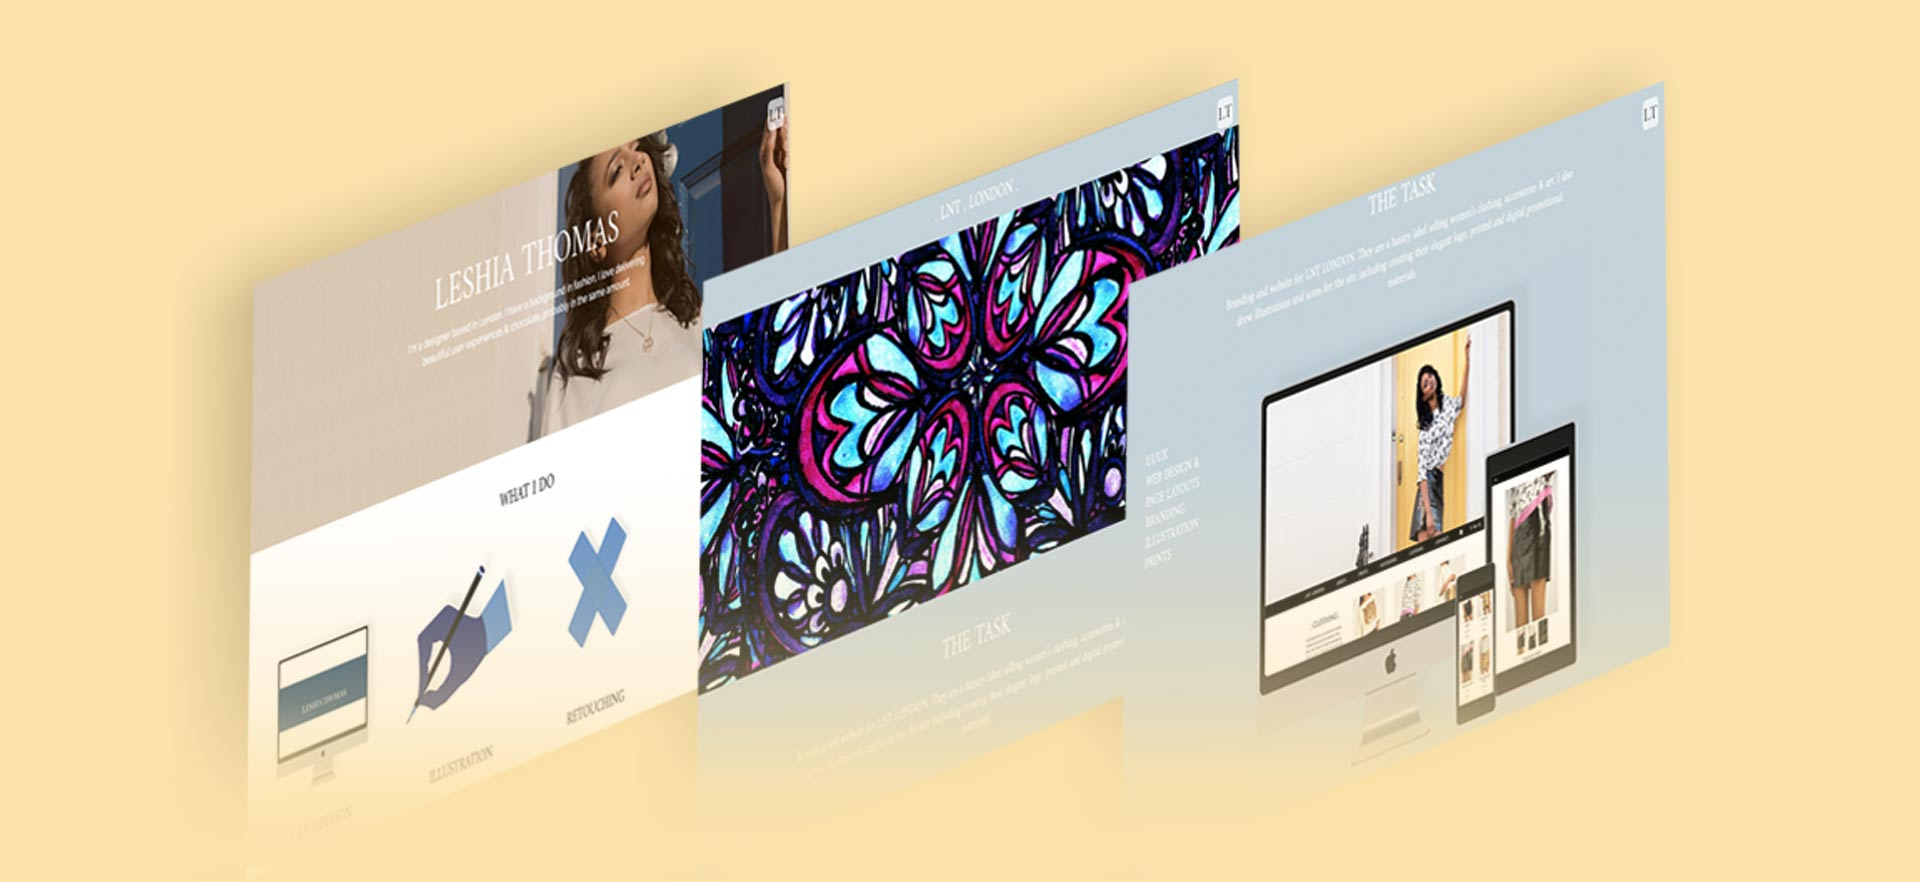
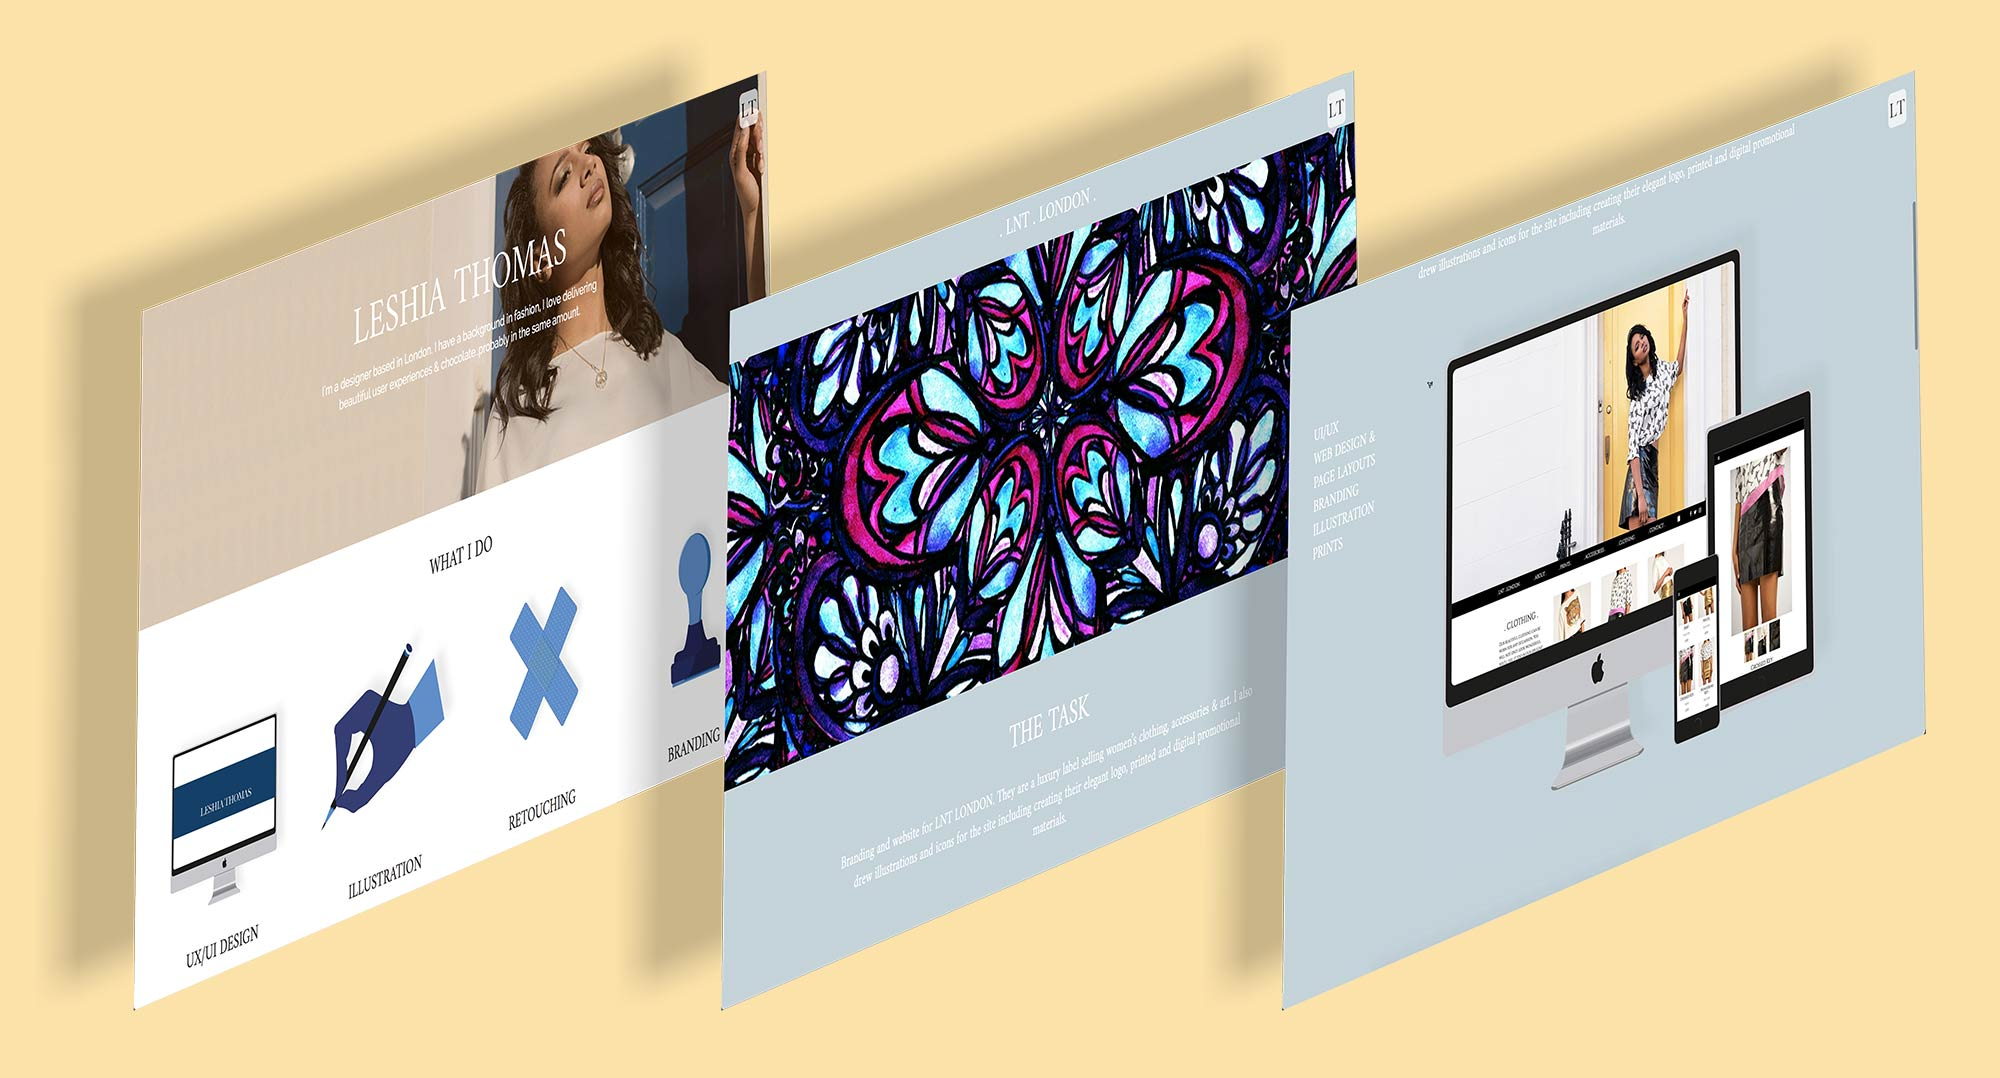
fixes for leshia thomas page

diff --git a/build/css/application.css b/build/css/application.css
@@ -235,7 +235,7 @@ a:hover, a:focus {
   margin-top: 100px; }
 
 .leshia-header-text {
-  padding: 100px 0; }
+  padding: 100px 0 0; }
 
 .page-container {
   box-shadow: 0 0 8px 2px rgba(0, 0, 0, 0.08); }
@@ -585,11 +585,15 @@ a:hover, a:focus {
     padding-right: 10px; }
 
 .site-link {
-  font-size: 23px;
-  color: #444444; }
+  font-size: 30px;
+  color: #444444;
+  transition: all ease-in-out 300ms; }
+  .site-link:hover, .site-link:focus {
+    color: gold; }
   .site-link.lnt {
     margin-top: -22px;
-    display: block; }
+    display: block;
+    font-size: 23px; }
 
 @media (max-width: 1520px) {
   .container {

diff --git a/sass/modules/_nav.scss b/sass/modules/_nav.scss
@@ -78,10 +78,15 @@
 }
 
 .site-link{
-  font-size: 23px;
+  font-size: 30px;
   color: #444444;
+  transition: all ease-in-out 300ms;
+  &:hover,&:focus{
+    color: gold;
+  }
   &.lnt{
     margin-top: -22px;
     display: block;
+    font-size: 23px;
   }
 }

diff --git a/sass/layout/_header.scss b/sass/layout/_header.scss
@@ -43,5 +43,5 @@
 }
 
 .leshia-header-text{
-  padding: 100px 0;
+  padding: 100px 0 0;
 }

diff --git a/leshiathomas.php b/leshiathomas.php
@@ -2,9 +2,18 @@
 
     <!-- Add your site or application content here -->
     <div class="container grid-images leshia">
-        <div class="row pt-20 leshia-bg">
+        <div class="row pt-20 leshia-bg text-center pb-40">
             <div class="col-md-8 col-md-offset-2">
                 <img class="img-responsive leshia-header-text" src="img/leshia-top-text.png"/>
+                <a target="_blank" class="site-link" href="https://tvplayer.com">www.tvplayer.com</a>
+            </div>
+        </div>
+        <div class="row pb-50 text-center leshia-solid-bg">
+            <div class="col-md-8 col-md-offset-2">
+                <h2 class="text-uppercase">the challenge</h2>
+                <p>"But I must explain to you how all this mistaken idea of denouncing pleasure and praising pain was born and I
+                    will give you a complete account of the system, and expound the actual teachings of the great explorer of
+                    "</p>
             </div>
         </div>
         <div class="row">
@@ -13,14 +22,9 @@
         <div class="row">
             <img class="img-responsive" src="img/leshia-second-page.jpg"/>
         </div>
-        <div class="row pb-50 leshia-solid-bg">
-            <img class="img-responsive" src="img/leshia-third-page.jpg"/>
-        </div>
-    </div>
-    <div class="container leshia-bg">
-        <div class="row task-description">
+        <div class="row task-description leshia-solid-bg">
             <div class="col-md-10 col-md-offset-1">
-                <h2 class="text-uppercase">the task</h2>
+                <h2 class="text-uppercase">the approach</h2>
                 <p>"But I must explain to you how all this mistaken idea of denouncing pleasure and praising pain was born and I
                     will give you a complete account of the system, and expound the actual teachings of the great explorer of
                     the truth, the master-builder of human happiness. No one rejects, dislikes, or avoids pleasure itself,
@@ -32,6 +36,11 @@
                     a pleasure that has no annoying consequences, or one who avoids a pain that produces no resultant pleasure?"</p>
             </div>
         </div>
+        <div class="row pb-50 leshia-solid-bg">
+            <img class="img-responsive" src="img/leshia-third-page.jpg"/>
+        </div>
+    </div>
+    <div class="container leshia-solid-bg">
         <div class="row portfolio">
             <div class="col-md-12">
                 <div class="tile col-md-4 col-sm-12 tech">
